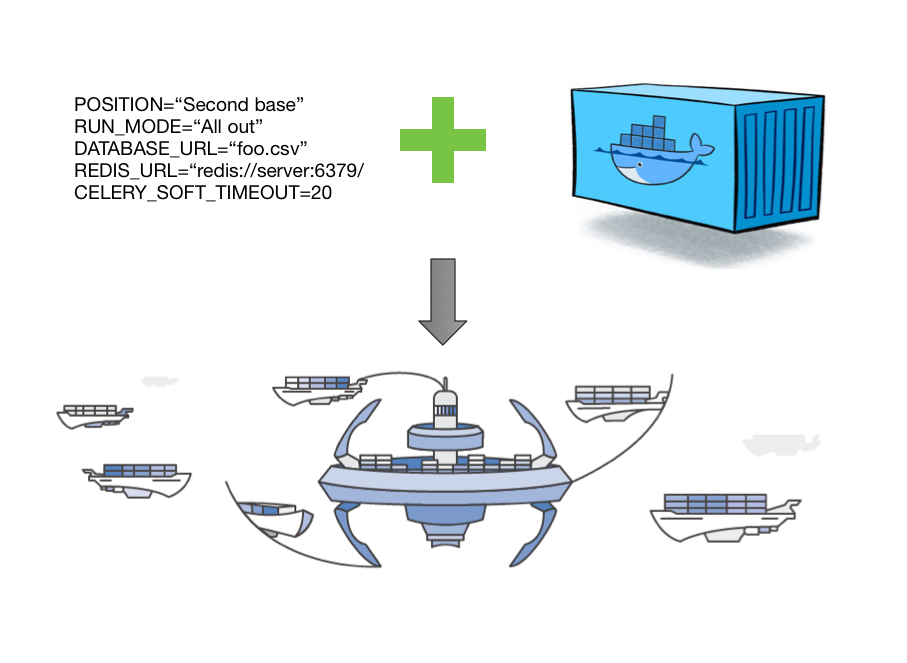
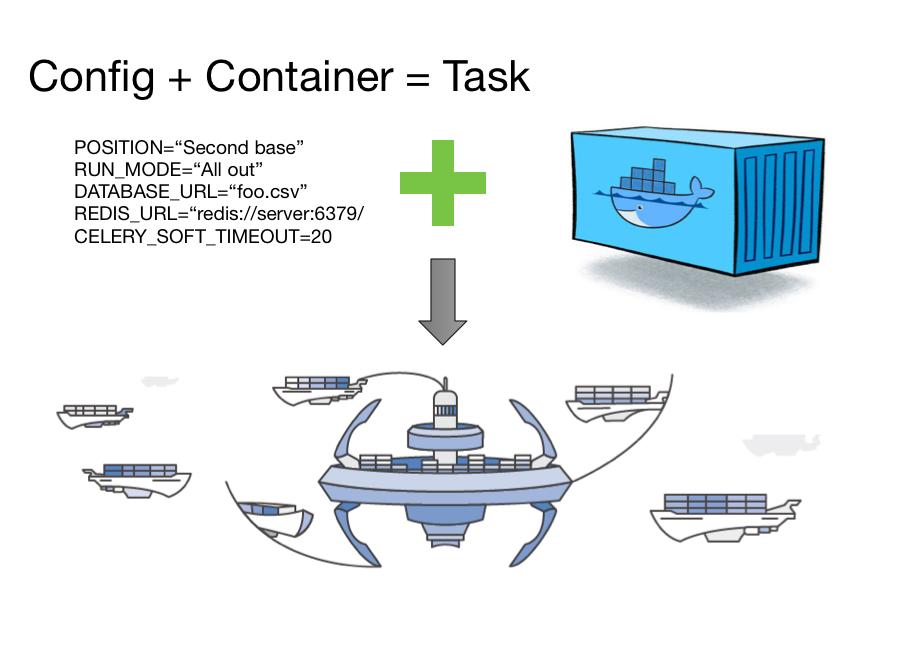
More, more!

Changed region(s): [[0.6174, 0.1207, 0.9261, 0.4827], [0.0309, 0.0905, 0.4631, 0.362], [0.4322, 0.0905, 0.5865, 0.362]]

diff --git a/present/index.html b/present/index.html
@@ -260,13 +260,26 @@ a difference
 </section>
 
 <section>
-  <h2>ECS basics</h2>
-  <p>"Cluster": EC2 instances providing compute pool</p>
-  <p class="fragment">"Task definition": immutable metadata to run container</p>
+  <h2>ECS basics: Cluster</h2>
+  <p>EC2 instances providing compute pool of compute</p>
+  <p>Can be in single AZ or spread across</p>
+  <p>ECS scheduler will run tasks in different AZs if possible</p>
+  <aside class="notes">
+  </aside>
+</section>
+
+<section>
+  <img src="lib/images/ecs_cluster_instance_types.png" width="907" height="663"
+    alt="ECS cluster instance types" style="border: none; box-shadow: none" />
+</section>
+
+<section>
+  <h2>ECS basics: Task definition</h2>
+  <p class="fragment">Immutable metadata to run container</p>
   <div class="fragment">
     <p>- Resource constraints</p>
-    <p>- Environment (12 Factor: 3)</p>
-    <p>- Docker image</p>
+    <p>- Environment (12 Factor: #3)</p>
+    <p>- Docker image tag</p>
     <p>- Linked containers</p>
     <p class="fragment">- ...stuff you use with <span class="code">docker run...</span></p>
   </div>
@@ -279,16 +292,18 @@ a difference
 </section>
 
 <section>
-  <h2>ECS basics</h2>
   <img src="lib/images/ecs_config_plus_container.png" width="907" height="663"
     alt="ECS: Config + Container" style="border: none; box-shadow: none" />
 </section>
 
 <section>
-  <h2>ECS basics: run types</h2>
-  <p>"Run task": go now, n times, and leave when you're done</p>
-  <p>"Service": go now, n times, and stick around...</p>
-  <p class="fragment">...updates, rolling deploys, ELB, and autoscaling</p>
+  <h2>ECS basics: Schedulers run tasks</h2>
+  <p>Given resource constraints, where to put the task?</p>
+  <div class="fragment">
+    <p>"Run task": go now, n times, and leave when you're done</p>
+    <p>"Service": go now, n times, and stick around...</p>
+    <p class="fragment">...updates, rolling deploys, ELB, and autoscaling</p>
+  </div>
   <aside class="notes">
     - Difference: once run task finishes it's done; service maintains the
       container count and on update does rolling deployment
@@ -296,8 +311,18 @@ a difference
 </section>
 
 <section>
-  <h2>ECS: bare bones</h2>
-  
+  <h2>ECS: What's missing?</h2>
+  <p>Deployment and configuration: OK</p>
+  <p>Routing and load balancing: So-so</p>
+  <p>Monitoring: Meh</p>
+  <p>Logging: So-so</p>
+  <p>Recovery: OK</p>
+  <aside class="notes">
+    This is how AWS works: they build something really basic with a couple
+    hooks into the ecosystem, then they improve it over time as well as 
+    improve the hooks.
+  </aside>
+</section>
 <section>
   <img src="lib/images/deployment_moving_parts.png" width="907" height="663"
     alt="Deployment" style="border: none; box-shadow: none" />
